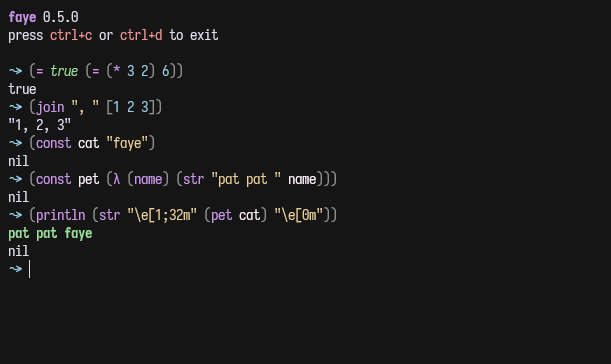
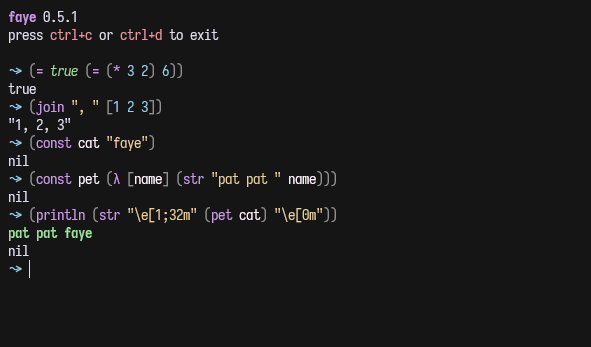
♻ refactor: make `fn` and lambda args a vector

Changed region(s): [[0.0, 0.1729, 0.5787, 0.7781], [0.0, 0.0288, 0.3655, 0.1153]]

diff --git a/src/eval/expr.rs b/src/eval/expr.rs
@@ -109,7 +109,7 @@ impl<'a, T: TryFrom<&'a Expr>> TryFrom<&'a Expr> for Vec<T> {
 
     fn try_from(value: &'a Expr) -> Result<Self, Self::Error> {
         match value {
-            Expr::List(n) => n.iter().map(|n| n.try_into().map_err(|_| ())).collect(),
+            Expr::Vector(v) => v.iter().map(|e| e.try_into().map_err(|_| ())).collect(),
             Expr::Nil => Ok(Self::new()),
             _ => Err(()),
         }
